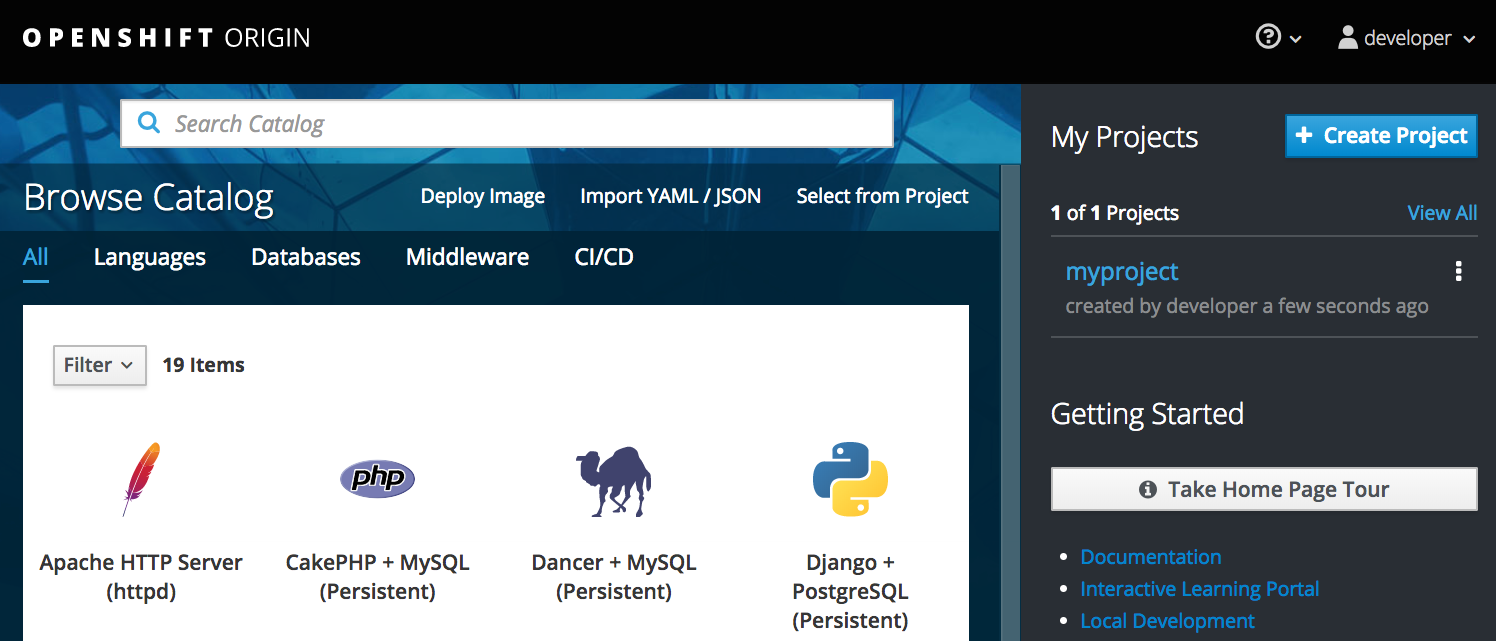
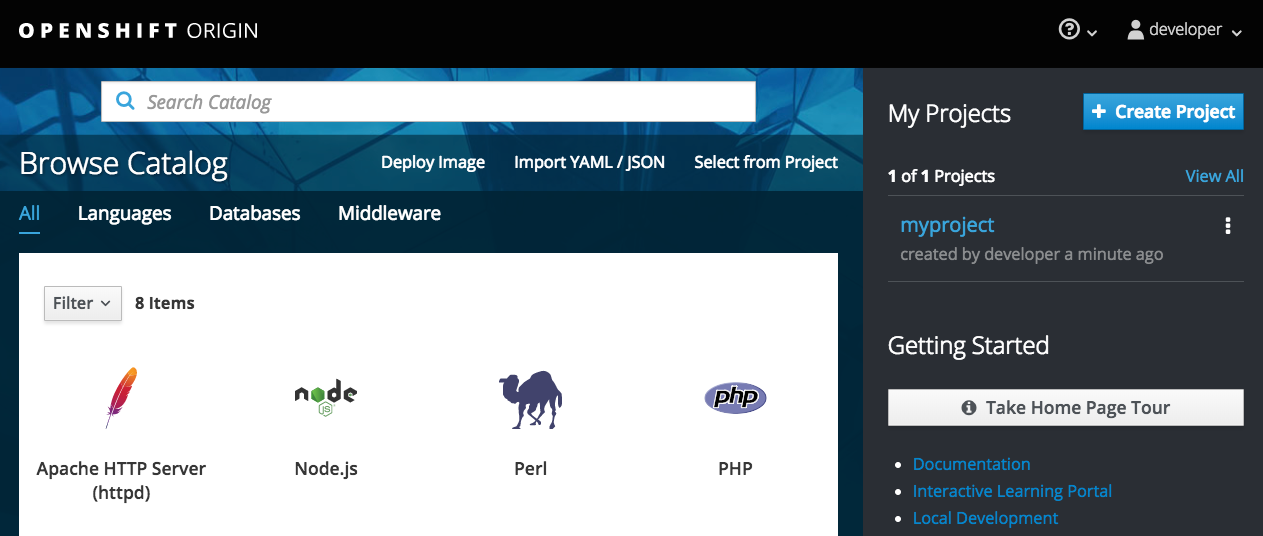
Updates for service catalog.

diff --git a/intro-openshift/service-binding/02-deploying-the-web-application.md b/intro-openshift/service-binding/02-deploying-the-web-application.md
@@ -1,31 +1,31 @@
 In this course you are going to first deploy a web application which is implemented using the Python programming language.
 
-Select the _Languages_ category from the service catalog.
+Select the _Languages_ category from the service catalog and then select _Python_.
 
-Any options for deploying applications which are related to Python will be displayed.
+![Available Languages](../../assets/intro-openshift/service-binding/02-python-language-category.png)
 
-![Available Python Versions](../../assets/intro-openshift/service-binding/02-deploy-python-versions.png)
+Any options for deploying applications which are related to Python will be displayed. In the environment used for this course, the only option presented will be that for the Python Source-to-Image (S2I) builder. Click on _Python_ in the lower pane to start setting up the deployment for the application.
 
-In the environment used for this course, the only option presented will be that for the Python Source-to-Image (S2I) builder.
+The first splash screen displayed will provide information on the S2I builder being used.
 
-For this exercise leave the version as ``latest``, which in this environment maps to Python 3.5.
+![Builder Information](../../assets/intro-openshift/service-binding/02-builder-information.png)
 
-Click on _Select_ to bring up the deployment options for the Python S2I builder.
+Click on _Next_ in order to enter in configuration for the deployment.
 
-![Python Deployment Options](../../assets/intro-openshift/service-binding/02-deploy-python-options.png)
+![Deployment Configuration](../../assets/intro-openshift/service-binding/02-deployment-configuration.png)
 
-For the _Name_ to be given to resources, enter:
+For the _Application Name_ enter:
 
 `blog`{{copy}}
 
-For the _Git Repository URL_ enter:
+For the _Git Repository_ enter:
 
 `https://github.com/openshift-katacoda/blog-django-py`{{copy}}
 
 When you are ready, at the bottom of the page click on _Create_. This will take you to a splash page confirming the application has been created.
 
-![Application Image Details](../../assets/intro-openshift/service-binding/02-continue-to-overview.png)
+![Application Created](../../assets/intro-openshift/service-binding/02-application-created.png)
 
-Click on _Continue to overview_ and you will be returned to the _Overview_ page, where you can view the details of the application created and monitor progress as it is built and deployed.
+Click on _Continue to the project overview_. This will take you to the _Overview_ page for the project, where you can view the details of the application created and monitor progress as it is built and deployed.
 
 ![Application Overview](../../assets/intro-openshift/service-binding/02-build-in-progress.png)
